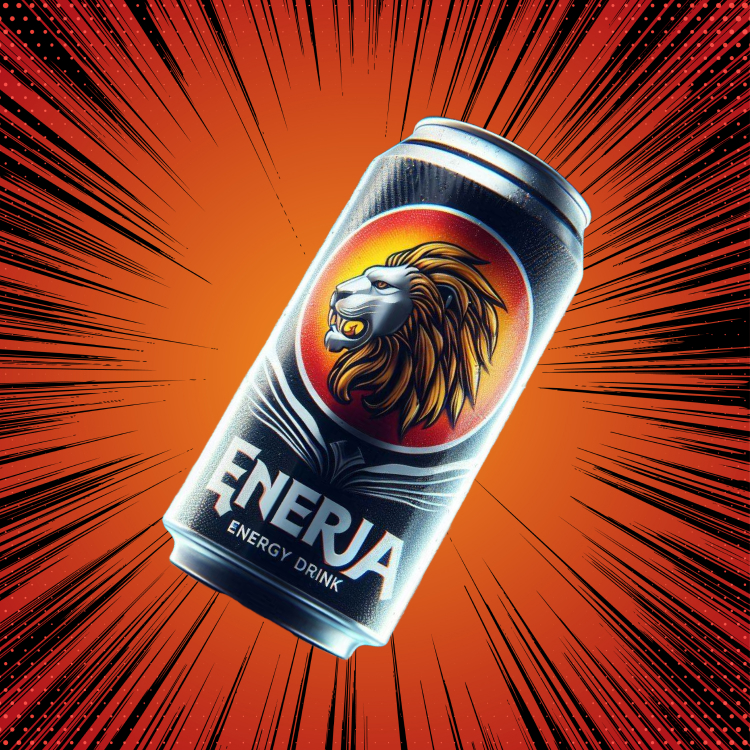
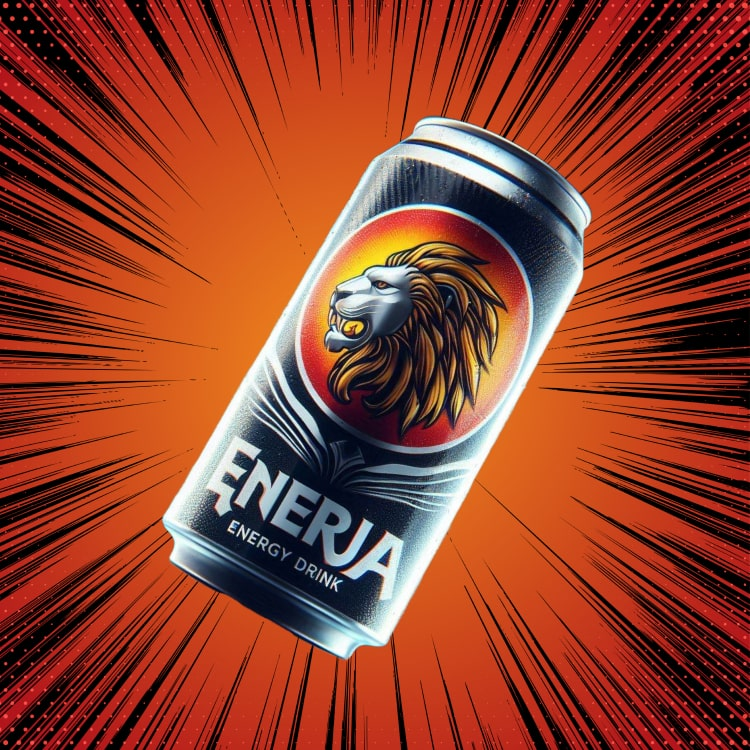
compressed large images

diff --git a/index.html b/index.html
@@ -144,7 +144,7 @@
             </ul> <!-- end s-intro__social -->
 
             <div class="s-intro__content-media">
-                <img src="images/intro-bg.jpg" srcset="images/intro-bg.jpg 1x, images/intro-bg.jpg 2x" alt="">
+                <img src="images/intro-bg-min.jpg" srcset="images/intro-bg-min.jpg 1x, images/intro-bg-min.jpg 2x" alt="">
             </div> <!-- s-intro__content-media -->
 
             <div class="s-intro__btn-download">
